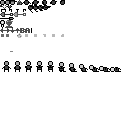
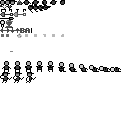
Fairy Guardmother

Changed region(s): [[0.0, 0.5625, 0.2812, 0.6562]]

diff --git a/src/main/sprite_ivan.c b/src/main/sprite_ivan.c
@@ -32,6 +32,8 @@ struct sprite_ivan {
   uint8_t jumppower;
   uint8_t carrying; // either the shovel or a block over my head, or nothing
   uint8_t injury_highlight;
+  uint16_t idleframec;
+  uint8_t fairy_triggered;
 };
 
 #define SPRITE ((struct sprite_ivan*)sprite)
@@ -318,6 +320,193 @@ static void ivan_check_actions(struct sprite *sprite) {
 
 }
 
+/* If we are at (x,y), and trapped in a hole with walls at (lx) and (rx), is the shovel reachable?
+ */
+ 
+static uint8_t shovel_is_reachable(struct sprite *sprite,int16_t x,int16_t y,int16_t lx,int16_t rx) {
+
+  // First, best case scenario: If we're holding the shovel, it is reachable.
+  if (SPRITE->carrying==CARRYING_SHOVEL) return 1;
+  if (SPRITE->carrying==CARRYING_SHOVEL_FULL) return 1;
+  
+  struct sprite *shovel=spritev;
+  uint8_t i=SPRITE_LIMIT;
+  for (;i-->0;shovel++) {
+  
+    if (shovel->controller!=SPRITE_CONTROLLER_SHOVEL) continue;
+  
+    int16_t sx=(shovel->x+(shovel->w>>1))/TILE_W_MM;
+    if (sx>=WORLD_W_TILES) sx-=WORLD_W_TILES;
+    if ((sx<0)||(sx>=WORLD_W_TILES)) continue;
+    int16_t sy=(shovel->y+(shovel->h>>1))/TILE_H_MM;
+    if ((sy<0)||(sy>=WORLD_H_TILES)) continue;
+    
+    if (lx<rx) {
+      if (sx<=lx) continue;
+      if (sx>=rx) continue;
+    } else {
+      if (sx>=lx) continue;
+      if (sx<=rx) continue;
+    }
+    
+    if (grid[sy*WORLD_W_TILES+sx]>=0x10) {
+      // Shovel is buried. Oh Ivan what have you done?
+      continue;
+    }
+    if ((sy<WORLD_H_TILES-1)&&(grid[(sy+1)*WORLD_W_TILES+sx]<0x10)) {
+      // There is air under the shovel. It might still be reachable by jumping, but let's stop there.
+      continue;
+    }
+    return 1;
+  }
+  return 0;
+}
+
+/* How many solid cells present in column (x) beginning at row (y) and proceeding upward?
+ */
+ 
+static int16_t get_elevation(int16_t x,int16_t y) {
+  if (x<0) return 0;
+  if (y<0) return 0;
+  if (x>=WORLD_W_TILES) return 0;
+  if (y>=WORLD_H_TILES) y=WORLD_H_TILES-1;
+  const uint8_t *v=grid+y*WORLD_W_TILES+x;
+  int16_t elevation=0;
+  while (y>=0) {
+    if (*v<0x10) break; // not solid
+    elevation++;
+    y--;
+    v-=WORLD_W_TILES;
+  }
+  return elevation;
+}
+
+/* How many dirts between (lx) and (rx) exclusive?
+ */
+ 
+static int16_t count_dirt_tiles(int16_t lx,int16_t rx) {
+  if (lx>rx) {
+    return count_dirt_tiles(-1,rx)+count_dirt_tiles(lx+1,WORLD_W_TILES);
+  }
+  lx+=1;
+  rx-=1;
+  if (lx<0) lx=0;
+  if (rx>=WORLD_W_TILES) rx=WORLD_W_TILES-1;
+  int16_t dirtc=0;
+  while (lx<=rx) {
+    const uint8_t *v=grid+lx;
+    uint8_t yi=WORLD_H_TILES;
+    for (;yi-->0;v+=WORLD_W_TILES) if ((*v>=0x20)&&(*v<=0x2f)) dirtc++;
+    lx++;
+  }
+  return dirtc;
+}
+
+/* Check whether I am trapped, ie should we summon a fairy?
+ * "Trapped" means one of:
+ *   - There is a wall on each side of me more than 2 tiles high, and the shovel is unreachable.
+ *   - Shovel is reachable, and the walls on each side of me are taller than the available dirt can pile.
+ */
+ 
+static uint8_t ivan_is_trapped(struct sprite *sprite) {
+  
+  // We're going to analyze based on the grid only, so pick the hero's position in grid space.
+  int16_t x=(sprite->x+(sprite->w>>1))/TILE_W_MM;
+  if (x>=WORLD_W_TILES) x-=WORLD_W_TILES;
+  if ((x<0)||(x>=WORLD_W_TILES)) return 0;
+  int16_t y=(sprite->y+(sprite->h>>1))/TILE_H_MM;
+  if ((y<0)||(y>=WORLD_H_TILES)) return 0;
+  
+  // Walk each direction and find the ground level at each column.
+  // If any single-pair slope exceeds 2, it's blocked.
+  // If both directions are blocked at different places, we're trapped.
+  int16_t lx=x-1;
+  int16_t fatal_elevation=2,prev_elevation=0;;
+  while (1) {
+    if (lx<0) lx+=WORLD_W_TILES;
+    if (lx==x) return 0; // circled the world; he's not trapped.
+    int16_t ly=get_elevation(lx,y);
+    if (ly>prev_elevation+2) break;
+    lx--;
+    prev_elevation=ly;
+  }
+  // And the same thing rightward...
+  int16_t rx=x+1;
+  fatal_elevation=2;
+  prev_elevation=0;
+  while (1) {
+    if (rx>=WORLD_W_TILES) rx-=WORLD_W_TILES;
+    if (rx==x) return 0;
+    if (rx==lx) return 0; // a single pole somewhere is not fairy-worthy
+    int16_t ry=get_elevation(rx,y);
+    if (ry>prev_elevation+2) break;
+    rx++;
+    prev_elevation=ry;
+  }
+  
+  // If the shovel is reachable, measure the shovelable dirt between lx and rx exclusive.
+  if (shovel_is_reachable(sprite,x,y,lx,rx)) {
+    int16_t dirtc=count_dirt_tiles(lx,rx);
+    int16_t lelev=get_elevation(lx,y);//WORLD_H_TILES-1);
+    int16_t relev=get_elevation(rx,y);//WORLD_H_TILES-1);
+    int16_t elevation=(lelev>relev)?lelev:relev;
+    int16_t w=(lx<rx)?(rx-lx-1):(rx+WORLD_W_TILES-lx-1);
+    if ((dirtc*4>=w*elevation)&&(elevation<=w<<1)) {
+      // This formula is not exact, it's a little forgiving.
+      // But basically, if we have 1/4 of the enclosed area as dirt, and elevation is less than double width, you can dig out.
+      return 0;
+    }
+  }
+  
+  return 1;
+}
+
+/* Is there a fairy guardmother in play already? We can't have two.
+ */
+ 
+static uint8_t fairy_exists() {
+  const struct sprite *sprite=spritev;
+  uint8_t i=SPRITE_LIMIT;
+  for (;i-->0;sprite++) {
+    if (sprite->controller==SPRITE_CONTROLLER_FAIRY) return 1;
+  }
+  return 0;
+}
+
+/* Create the fairy guardmother if needed.
+ * She appears when you are trapped and have left the controls idle for more than say 2 seconds.
+ */
+ 
+static void ivan_check_fairy(struct sprite *sprite) {
+
+  // Any input resets the state.
+  if (SPRITE->dx||SPRITE->dy||SPRITE->injump||SPRITE->inaux) {
+    SPRITE->idleframec=0;
+    SPRITE->fairy_triggered=0;
+    return;
+  }
+  
+  // Already been here? Must reset before reappearing.
+  if (SPRITE->fairy_triggered) return;
+  
+  SPRITE->idleframec++;
+  if (SPRITE->idleframec>=120) {
+    SPRITE->idleframec=0;
+    SPRITE->fairy_triggered=1;
+    if (fairy_exists()) return;
+    if (ivan_is_trapped(sprite)) {
+      struct sprite *fairy=sprite_new();
+      if (fairy) {
+        fairy->controller=SPRITE_CONTROLLER_FAIRY;
+        fairy->w=12*MM_PER_PIXEL;
+        fairy->h=11*MM_PER_PIXEL;
+        fairy->x=sprite->x-(CAMERA_W_MM>>1)-fairy->w;
+        fairy->y=sprite->y-(CAMERA_W_MM>>2);
+      }
+    }
+  }
+}
+
 /* Update.
  */
  
@@ -328,6 +517,7 @@ void sprite_update_ivan(struct sprite *sprite) {
     ivan_update_jump(sprite);
     ivan_check_tattle(sprite);
     ivan_check_actions(sprite);
+    ivan_check_fairy(sprite);
     if (SPRITE->injury_highlight) SPRITE->injury_highlight--;
   } else {
   }

diff --git a/src/main/sprites.c b/src/main/sprites.c
@@ -188,3 +188,68 @@ void sprite_render_bullet(struct sprite *sprite) {
   sprite_get_render_position(&x,&y,sprite);
   image_blit_colorkey(&fb,x,y,&fgbits,0,5,2,2);
 }
+
+/* Fairy Guardmother.
+ */
+ 
+#define FAIRY_SPEED_HORZ (MM_PER_PIXEL>>2)
+#define FAIRY_ESCAPE_SPEED_HORZ ((MM_PER_PIXEL*3)/2)
+#define FAIRY_SPEED_VERT (MM_PER_PIXEL>>3)
+ 
+void sprite_update_fairy(struct sprite *sprite) {
+
+  if (sprite->opaque[4]) {
+    sprite->x-=FAIRY_ESCAPE_SPEED_HORZ;
+    sprite->y-=FAIRY_SPEED_VERT;
+    sprite->opaque[4]++;
+    if (sprite->opaque[4]>=100) sprite->controller=SPRITE_CONTROLLER_NONE;
+    return;
+  }
+
+  if (!sprite->opaque[2]) sprite->x+=FAIRY_SPEED_HORZ;
+  sprite->y+=FAIRY_SPEED_VERT;
+  
+  struct sprite *hero=game_get_hero();
+  if (!hero) {
+    sprite->controller=SPRITE_CONTROLLER_NONE;
+    return;
+  }
+  if (sprite->y>=hero->y) {
+    sprite->opaque[2]=1;
+    sprite->y=hero->y;
+    sprite->opaque[3]++;
+    if (sprite->opaque[3]>=30) { // pause a bit then make then dirt
+      int16_t x=(hero->x+(hero->w>>1))/TILE_W_MM;
+      if (x>=WORLD_W_TILES) x-=WORLD_W_TILES;
+      if ((x>=0)&&(x<WORLD_W_TILES)) {
+        int16_t y=(hero->y+(hero->h>>1))/TILE_H_MM;
+        if ((y>=0)&&(y<WORLD_H_TILES)) {
+          hero->y-=TILE_H_MM;
+          grid_add_dirt(x,y);
+          //TODO fireworks
+        }
+      }
+      sprite->opaque[4]=1;
+    }
+  }
+}
+
+void sprite_render_fairy(struct sprite *sprite) {
+  int16_t x,y;
+  sprite_get_render_position(&x,&y,sprite);
+  
+  if (sprite->opaque[0]) sprite->opaque[0]--;
+  else {
+    sprite->opaque[0]=6;
+    sprite->opaque[1]++;
+    if (sprite->opaque[1]>=4) sprite->opaque[1]=0;
+  }
+  
+  int16_t srcx=0;
+  switch (sprite->opaque[1]) {
+    case 1: srcx+=12; break;
+    case 2: srcx+=24; break;
+    case 3: srcx+=12; break;
+  }
+  image_blit_colorkey(&fb,x,y,&fgbits,srcx,72,12,11);
+}

diff --git a/src/main/game.h b/src/main/game.h
@@ -59,11 +59,13 @@ void sprite_input_ivan(struct sprite *sprite,uint8_t input,uint8_t pvinput);
 void sprite_update_ivan(struct sprite *sprite);
 void sprite_update_guard(struct sprite *sprite);
 void sprite_update_bullet(struct sprite *sprite);
+void sprite_update_fairy(struct sprite *sprite);
 void sprite_render_ivan(struct sprite *sprite);
 void sprite_render_dummy(struct sprite *sprite);
 void sprite_render_guard(struct sprite *sprite);
 void sprite_render_shovel(struct sprite *sprite);
 void sprite_render_bullet(struct sprite *sprite);
+void sprite_render_fairy(struct sprite *sprite);
 
 /* Renders a bubble with a downward indicator, you can render text onto it.
  * (x,y,w,h,focusx) all in framebuffer pixels.

diff --git a/src/main/game.c b/src/main/game.c
@@ -89,6 +89,7 @@ void game_update() {
     case SPRITE_CONTROLLER_IVAN: sprite_update_ivan(sprite); break;
     case SPRITE_CONTROLLER_GUARD: sprite_update_guard(sprite); break;
     case SPRITE_CONTROLLER_BULLET: sprite_update_bullet(sprite); break;
+    case SPRITE_CONTROLLER_FAIRY: sprite_update_fairy(sprite); break;
   }
   
   if (gameclock) gameclock--;
@@ -322,6 +323,7 @@ void game_render() {
       case SPRITE_CONTROLLER_GUARD: sprite_render_guard(sprite); break;
       case SPRITE_CONTROLLER_SHOVEL: sprite_render_shovel(sprite); break;
       case SPRITE_CONTROLLER_BULLET: sprite_render_bullet(sprite); break;
+      case SPRITE_CONTROLLER_FAIRY: sprite_render_fairy(sprite); break;
     }
   }
   

diff --git a/src/main/world.c b/src/main/world.c
@@ -49,6 +49,13 @@ void grid_default() {
   grid[WORLD_W_TILES*15+47]=0x2a;
   grid[WORLD_W_TILES*14+46]=0x28;
   grid[WORLD_W_TILES*13+46]=0x12;
+  
+  /* XXX TEMP Put the statue higher while testing, it's getting annoying. */
+  grid[WORLD_W_TILES*13+46]=0x2f;
+  grid[WORLD_W_TILES*12+46]=0x2f;
+  grid[WORLD_W_TILES*11+46]=0x2f;
+  grid[WORLD_W_TILES*10+46]=0x12;
+  /**/
 }
 
 /* Update camera.

diff --git a/src/main/world.h b/src/main/world.h
@@ -56,6 +56,7 @@ extern struct sprite {
 #define SPRITE_CONTROLLER_GUARD 3
 #define SPRITE_CONTROLLER_SHOVEL 4
 #define SPRITE_CONTROLLER_BULLET 5
+#define SPRITE_CONTROLLER_FAIRY 6
 
 extern struct camera {
   int16_t x,y,w,h; // Boundaries in mm, watch for exceeding left and right world edges.

diff --git a/README.md b/README.md
@@ -33,7 +33,7 @@
 - [x] Main menu
 - [x] Death animation, don't just hop to the menu immediately.
 - [ ] Tiny menu image
-- [ ] Fairy appears when you're trapped and creates new dirt
+- [x] Fairy appears when you're trapped and creates new dirt
 - [ ] Get permission from the Solzhenitsyn estate: https://www.solzhenitsyncenter.org/who-we-are
 - [x] Watch the 1970 movie. There's a movie!
 - - https://www.youtube.com/watch?v=YqG1uwhTX2o
